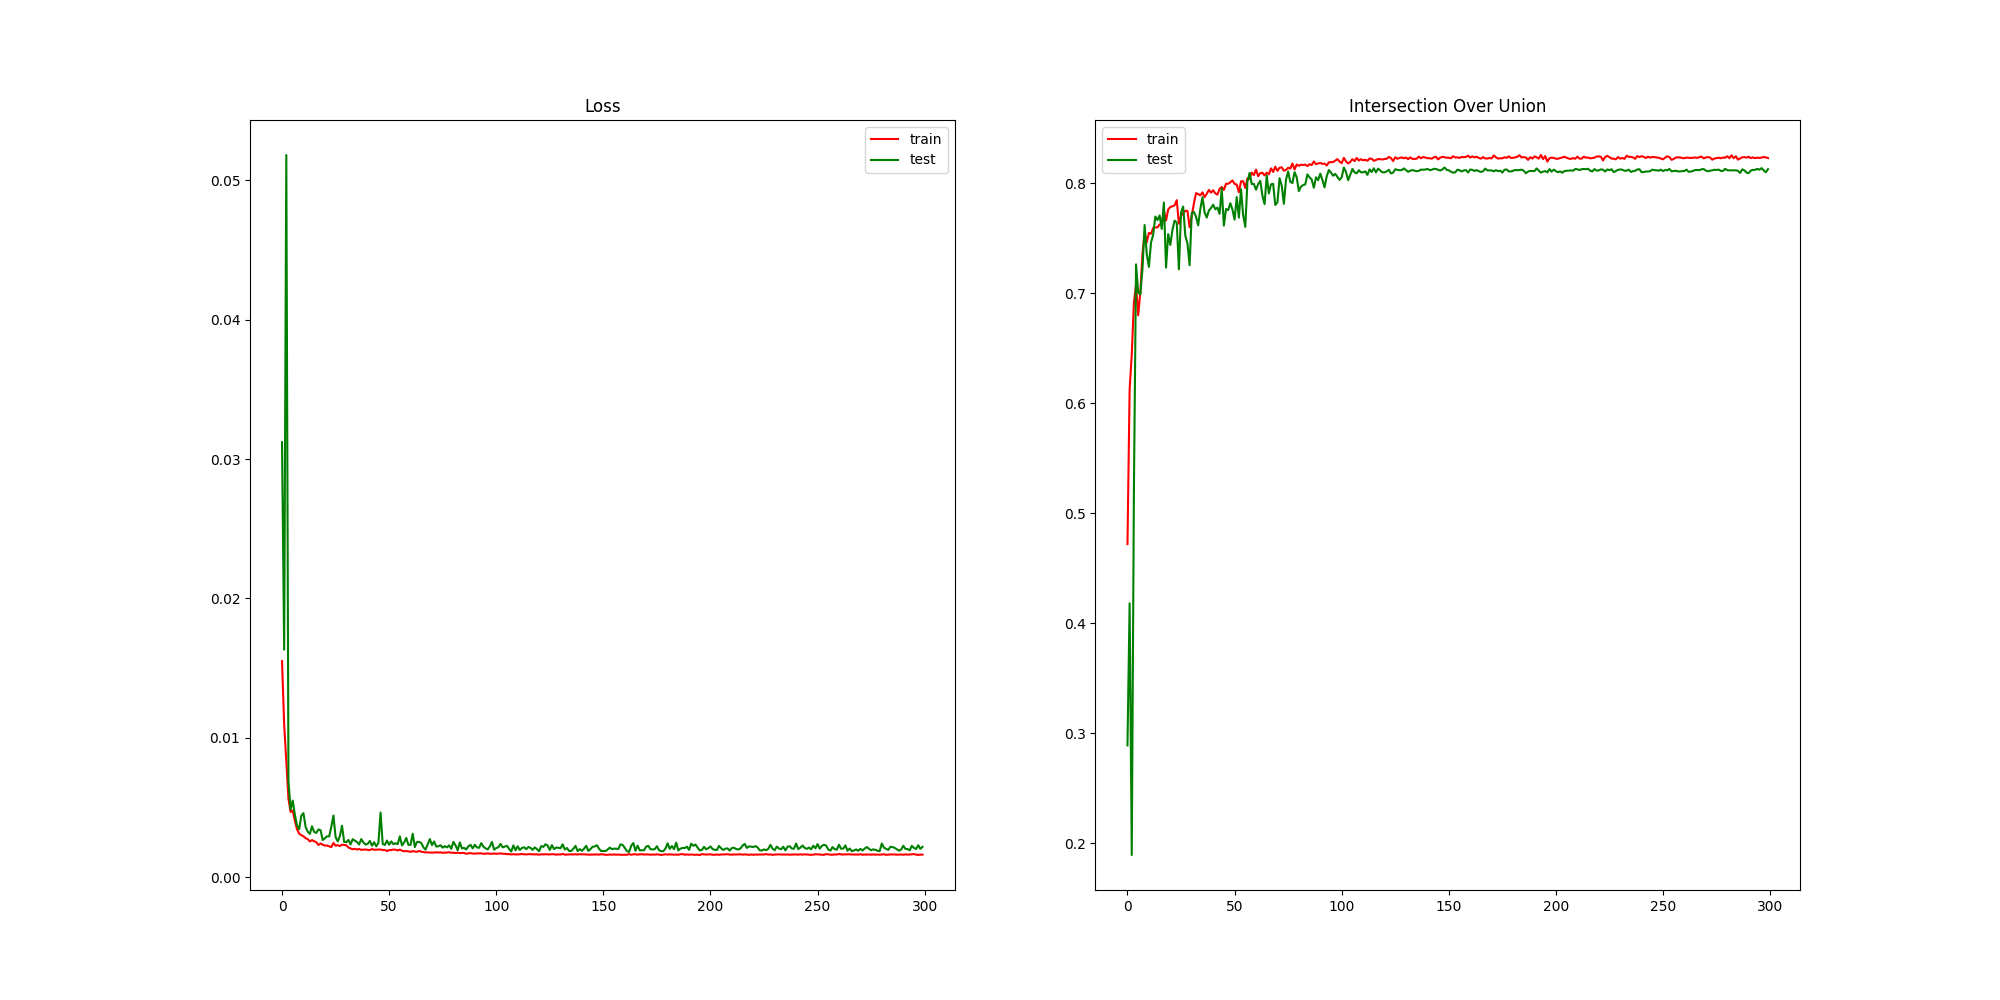
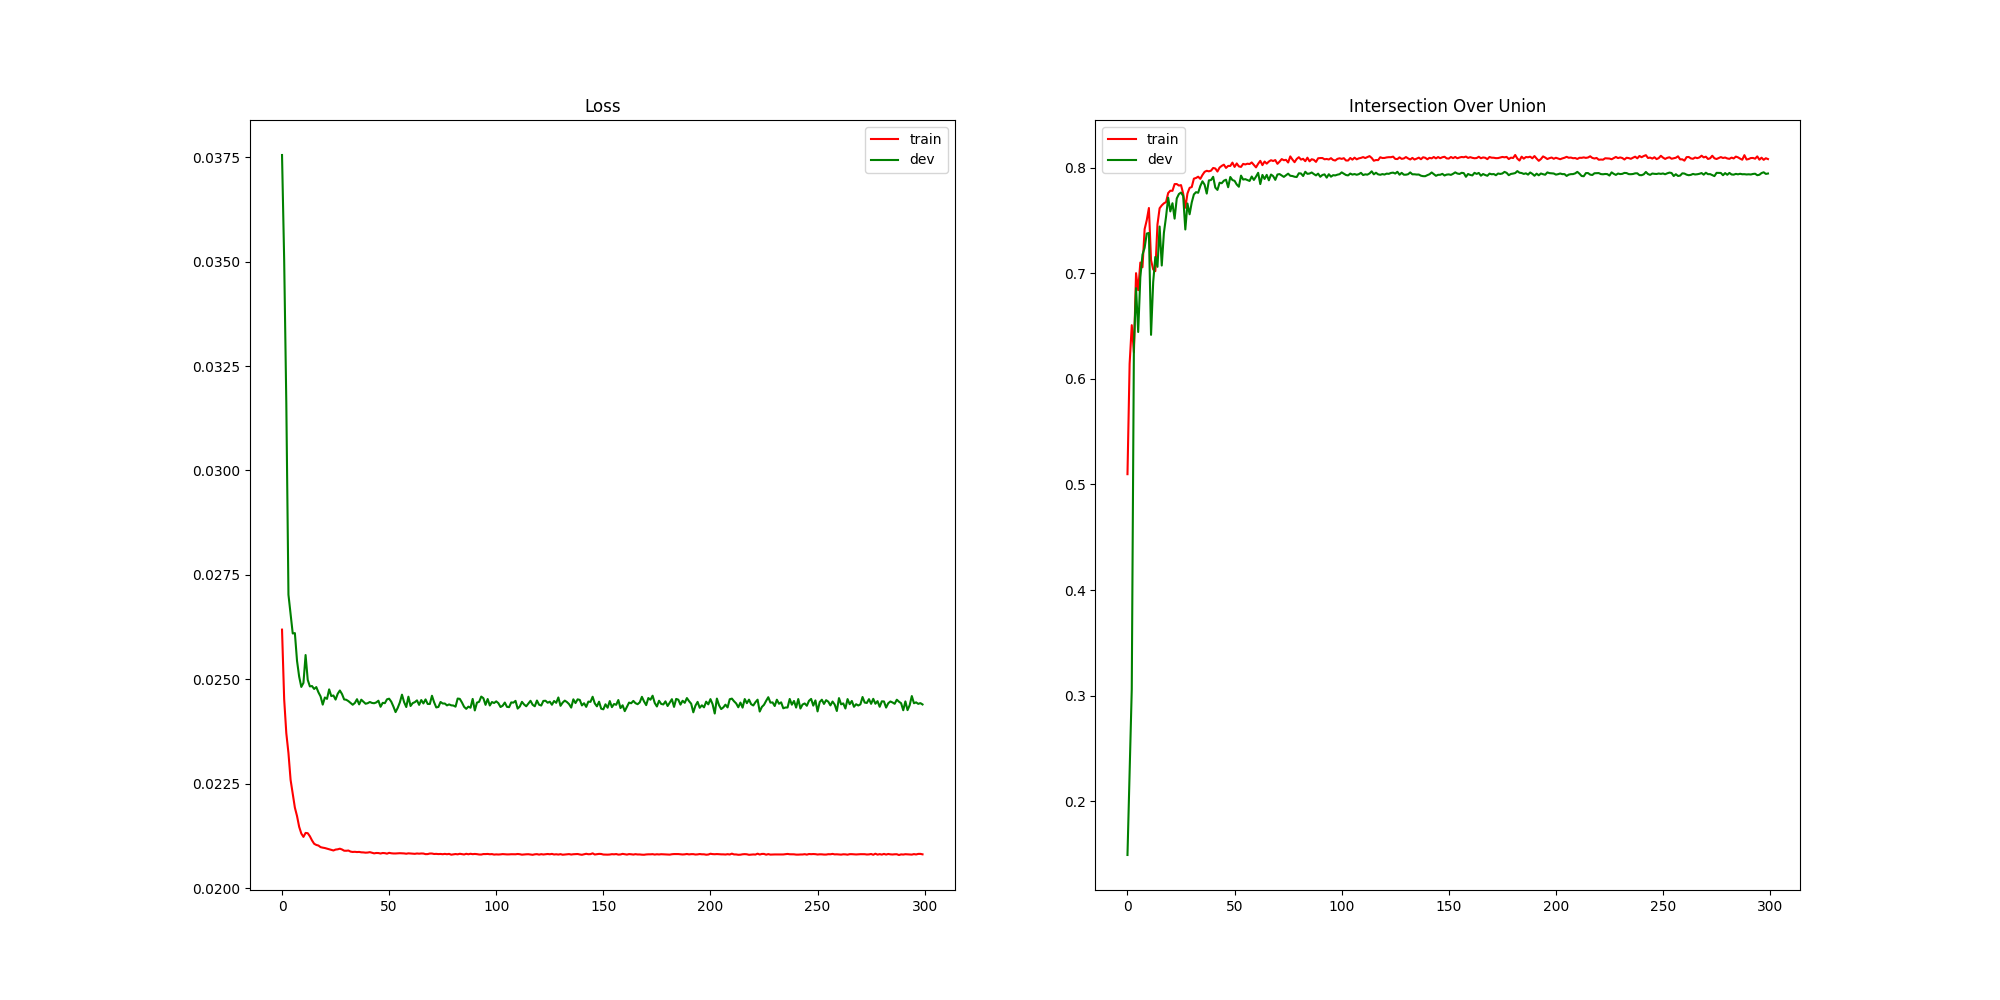
Minor changes

diff --git a/create_submission.py b/create_submission.py
@@ -1,0 +1,67 @@
+import sys
+import pandas as pd
+import torch
+from torch.utils.data import DataLoader
+from lib.data_generators import Cells_dataset
+from lib.utils import run_competition_test
+
+# Check script arguments
+if len(sys.argv) != 2:
+    print(f"Usage: python {sys.argv[0]} <PATH_TO_TRAINED_MODEL>")
+    sys.exit()
+
+##########################
+# Check computing device #
+##########################
+
+if torch.cuda.is_available():
+    n_gpus = torch.cuda.device_count()
+    if n_gpus > 1:
+        print(f"\n{n_gpus} GPU's available:")
+        for gpu_idx in range(n_gpus):
+            print(f"\t-At device cuda:{gpu_idx} -> device model = {torch.cuda.get_device_name(gpu_idx)}")
+    else:
+        print(f"\nCuda available with device {device} -> device model = {torch.cuda.get_device_name(device_slot)}")
+    
+    # Select a GPU
+    device_slot = torch.cuda.current_device()
+    device = torch.device(f"cuda:{device_slot}")
+else:
+    n_gpus = 0
+    device = torch.device("cpu")
+    print(f"\nCuda is not available, using {device} instead")
+ 
+
+###################
+# Test parameters #
+###################
+
+model_path = sys.argv[1]
+
+# Data loader settings
+batch_size = 1     # THIS MUST BE 1 IN ORDER TO WORK
+num_workers = 2    # Processes for loading data in parallel
+multi_gpu = True   # Enables multi-gpu training if it is possible
+pin_memory = True  # Pin memory for extra speed loading batches in GPU
+
+###################
+# Data generators #
+###################
+
+# Load dataset info
+data_df = pd.read_csv("../dataset/data_partition.csv")
+# Create test datagen
+test_dataset = Cells_dataset(data_df, "dev")
+test_datagen = DataLoader(test_dataset, batch_size=batch_size, num_workers=num_workers, pin_memory=pin_memory)
+
+#############################
+# Load the pretrained model #
+#############################
+
+model = torch.load(model_path)
+
+########################
+# Run competition test #
+########################
+
+test_iou = run_competition_test(test_datagen, model, device, pin_memory)

diff --git a/train.py b/train.py
@@ -40,19 +40,19 @@ epochs = 300
 batch_size = 32
 
 # Optimizer config
-optimizer_name = "SGD"  # Options "Adam", "SGD"
-learning_rate = 0.01
+optimizer_name = "Adam"  # Options "Adam", "SGD"
+learning_rate = 0.001
 
 # Weight initializer of the model 
 initializer = "he_normal"  # Options "he_normal", "dirac", "xavier_uniform", "xavier_normal"
 
 # Model settings
-use_batchnorm = False
-dropout = 0.5  # Dropout before the upsampling part
+use_batchnorm = True
+dropout = 0.0  # Dropout before the upsampling part
 
 # Data loader settings
-data_augmentation = False
-make_crops = False  # For making random crops after the data agumentation
+data_augmentation = True
+make_crops = True   # For making random crops after the data agumentation
 num_workers = 2     # Processes for loading data in parallel
 multi_gpu = True    # Enables multi-gpu training if it is possible
 pin_memory = True   # Pin memory for extra speed loading batches in GPU

diff --git a/lib/utils.py b/lib/utils.py
@@ -92,13 +92,17 @@ def iou_metric(logits, target, threshold=0.5):
 
 '''
 Computes the average of applying the iou with diferent mask thresholds. 
-From 0.05 to 0.95 with a step of 0.05
+From 0.5 to 0.95 with a step of 0.05
 Params:
     logits -> Tensor output of the net. Shape: (batch_size, 1, h, w)
     target -> Target mask tensor of 0's anb 1's. Shape: (batch_size, 1, h, w)
 '''
 def competition_iou_metric(logits, target):
-    return iou_metric(logits, target)
+    ious_sum = 0
+    thresholds = np.arange(0.5, 1, 0.05)
+    for threshold in thresholds:
+        ious_sum += iou_metric(logits, target, threshold)
+    return  ious_sum / len(thresholds) 
 
 '''
 Given the predicted masks from the net and the original masks(with different shapes).
